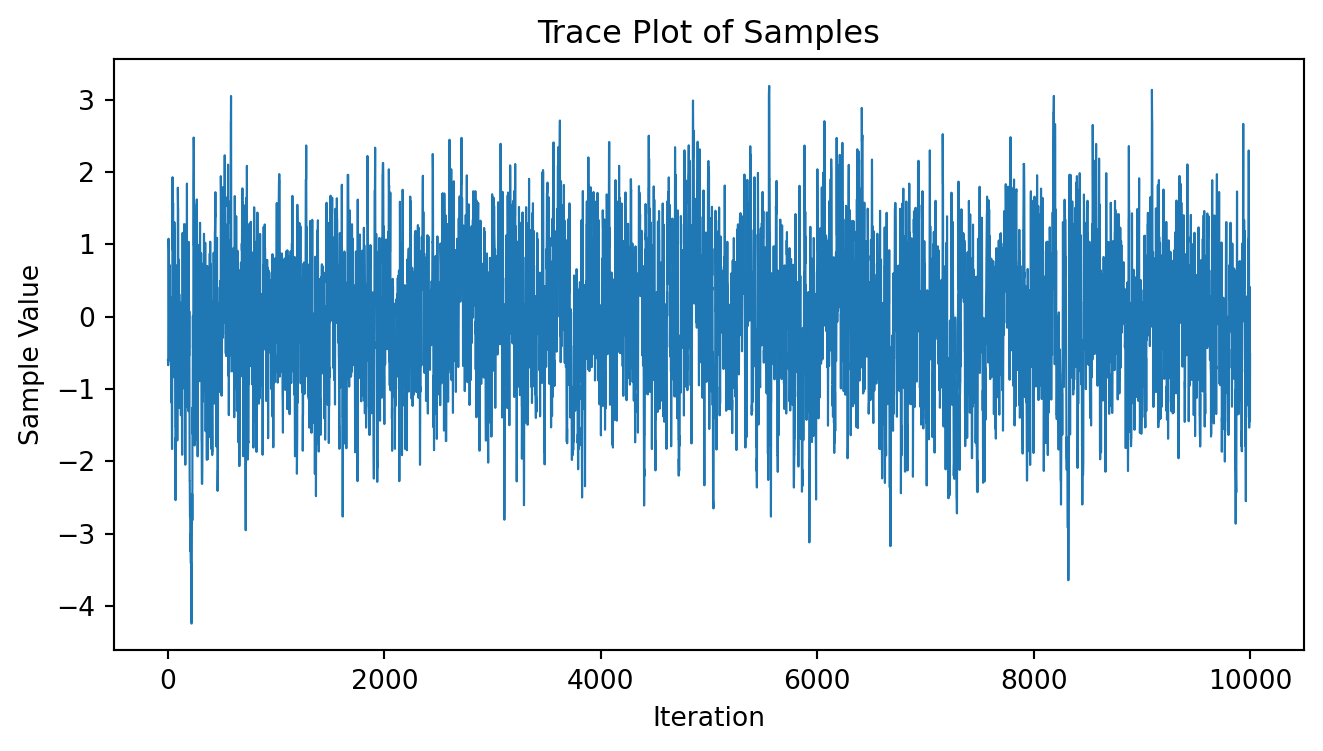
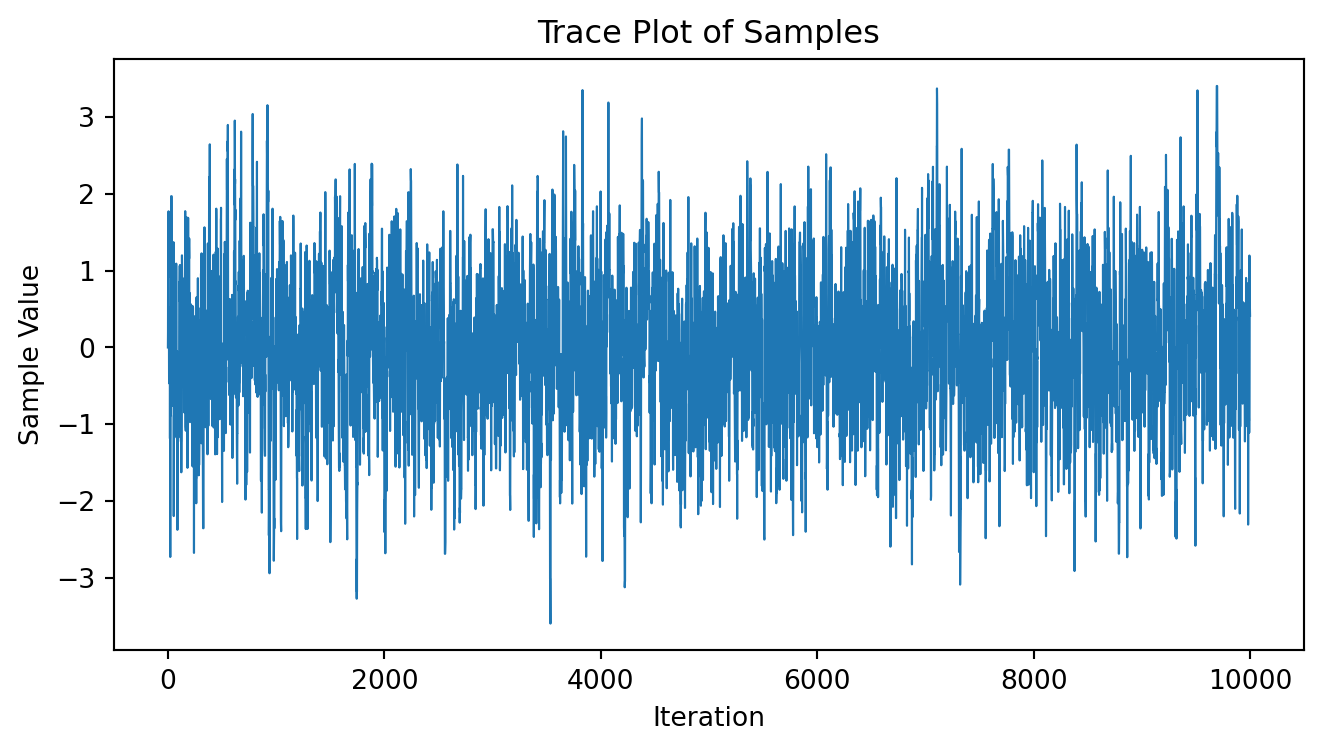
Built site for gh-pages

diff --git a/posts/2024/MCMC/metropolis-hastings.html b/posts/2024/MCMC/metropolis-hastings.html
@@ -143,22 +143,8 @@ gtag('config', 'G-G4BZMT89L0', { 'anonymize_ip': true});
 }
 </style>
 
-  <script>window.backupDefine = window.define; window.define = undefined;</script><script src="https://cdn.jsdelivr.net/npm/katex@latest/dist/katex.min.js"></script>
-  <script>document.addEventListener("DOMContentLoaded", function () {
- var mathElements = document.getElementsByClassName("math");
- var macros = [];
- for (var i = 0; i < mathElements.length; i++) {
-  var texText = mathElements[i].firstChild;
-  if (mathElements[i].tagName == "SPAN") {
-   katex.render(texText.data, mathElements[i], {
-    displayMode: mathElements[i].classList.contains('display'),
-    throwOnError: false,
-    macros: macros,
-    fleqn: false
-   });
-}}});
-  </script>
-  <script>window.define = window.backupDefine; window.backupDefine = undefined;</script><link rel="stylesheet" href="https://cdn.jsdelivr.net/npm/katex@latest/dist/katex.min.css">
+  <script src="https://cdnjs.cloudflare.com/polyfill/v3/polyfill.min.js?features=es6"></script>
+  <script src="https://cdn.jsdelivr.net/npm/mathjax@3/es5/tex-chtml-full.js" type="text/javascript"></script>
 
 <script type="text/javascript">
 const typesetMath = (el) => {
@@ -291,7 +277,7 @@ window.Quarto = {
 <!-- sidebar -->
 <!-- margin-sidebar -->
     <div id="quarto-margin-sidebar" class="sidebar margin-sidebar">
-        <nav id="TOC" role="doc-toc" class="toc-active">
+        <nav id="TOC" role="doc-toc" class="toc-active" data-toc-expanded="2">
     <h2 id="toc-title">目次</h2>
    
   <ul>
@@ -319,16 +305,20 @@ window.Quarto = {
 
 
 
+<div class="hidden">
+<p>$$</p>
+<p>$$</p>
+</div>
 <section id="モチベーション" class="level2">
 <h2 class="anchored" data-anchor-id="モチベーション">モチベーション</h2>
-<p>MCMC とは，任意の確率分布 <span class="math inline">f(\cdot)</span> を定常分布にもつマルコフ連鎖を生成することで，所望の分布 <span class="math inline">f(\cdot)</span> に従う乱数を生成するモンテカルロ法である．</p>
+<p>MCMC とは，任意の確率分布 <span class="math inline">\(f(\cdot)\)</span> を定常分布にもつマルコフ連鎖を生成することで，所望の分布 <span class="math inline">\(f(\cdot)\)</span> に従う乱数を生成するモンテカルロ法である．</p>
 <p>ある確率分布に従う乱数が欲しい，あるいは確率分布を数値的に近似したいというシーンはしばしばある．</p>
-<p>例えば，ベイズ統計学ではデータ <span class="math inline">D</span> から得た情報によって，パラメータ <span class="math inline">\theta</span> に対する信念とも言える事前分布 <span class="math inline">p(\theta)</span> を事後分布 <span class="math inline">p(\theta|D)</span> に更新し，この事後分布を使って推定を行う．</p>
-<p><span class="math display">
+<p>例えば，ベイズ統計学ではデータ <span class="math inline">\(D\)</span> から得た情報によって，パラメータ <span class="math inline">\(\theta\)</span> に対する信念とも言える事前分布 <span class="math inline">\(p(\theta)\)</span> を事後分布 <span class="math inline">\(p(\theta|D)\)</span> に更新し，この事後分布を使って推定を行う．</p>
+<p><span class="math display">\[
 p(\theta|D) = \frac{p(D|\theta)p(\theta)}{p(D)}
-</span></p>
+\]</span></p>
 <p>しかし，事後分布を解析的に導くことは，共役事前分布など特別な場合を除いて困難である．</p>
-<p>そこで，事後分布が定常分布となるような遷移確率（推移確率）を決めてパラメータについてのマルコフ連鎖 <span class="math inline">(\theta_t)_{t\geqslant 0}</span> を生成し，事後分布を数値的に近似することを考える．</p>
+<p>そこで，事後分布が定常分布となるような遷移確率（推移確率）を決めてパラメータについてのマルコフ連鎖 <span class="math inline">\((\theta_t)_{t\geqslant 0}\)</span> を生成し，事後分布を数値的に近似することを考える．</p>
 <p>ここで生じる問題は，どのようにしてパラメータについての遷移確率を決めれば良いかである．</p>
 <div class="callout callout-style-simple callout-tip">
 <div class="callout-body d-flex">
@@ -343,29 +333,29 @@ p(\theta|D) = \frac{p(D|\theta)p(\theta)}{p(D)}
 </section>
 <section id="metropolis-hastings-アルゴリズム" class="level2">
 <h2 class="anchored" data-anchor-id="metropolis-hastings-アルゴリズム">Metropolis-Hastings アルゴリズム</h2>
-<p>Metropolis-Hastings (MH) 法は，目標分布 (target distribution) <span class="math inline">\pi(\cdot)</span> を定常分布にもつマルコフ連鎖を生成するアルゴリズムの一つである．</p>
-<p>前述のベイズ統計学の例で言うと，事後分布 <span class="math inline">p(\theta|D)</span> が目標分布 <span class="math inline">\pi(\theta)</span> ということになる． 本稿では引き続きこの例を使用し，パラメータ <span class="math inline">\theta \in \Theta \subset \R^d</span> の従う分布 <span class="math inline">\pi(\theta)</span> を目標分布だと考えて議論を進める．</p>
+<p>Metropolis-Hastings (MH) 法は，目標分布 (target distribution) <span class="math inline">\(\pi(\cdot)\)</span> を定常分布にもつマルコフ連鎖を生成するアルゴリズムの一つである．</p>
+<p>前述のベイズ統計学の例で言うと，事後分布 <span class="math inline">\(p(\theta|D)\)</span> が目標分布 <span class="math inline">\(\pi(\theta)\)</span> ということになる． 本稿では引き続きこの例を使用し，パラメータ <span class="math inline">\(\theta \in \Theta \subset \mathbb{R}^d\)</span> の従う分布 <span class="math inline">\(\pi(\theta)\)</span> を目標分布だと考えて議論を進める．</p>
 <section id="提案分布の導入" class="level3">
 <h3 class="anchored" data-anchor-id="提案分布の導入">提案分布の導入</h3>
-<p>マルコフ連鎖は，状態空間 (state space) と状態間の遷移確率で規定される． 現時点でわかっていることは，パラメータ <span class="math inline">\theta</span> が状態空間 <span class="math inline">\Theta</span> の一つの状態を表すということだけで，どのような遷移確率で状態遷移するかは未知である．</p>
-<p>そこで，状態 <span class="math inline">\theta</span> の下での提案分布 <span class="math inline">q(\theta, \theta')</span> を適当に導入する． ただし，<span class="math inline">\int_\Theta q(\theta, \theta') d\theta' = 1</span>である． 提案分布はマルコフ連鎖 <span class="math inline">(\theta_t)</span> が状態 <span class="math inline">\theta</span> にあるとき，来期の状態 <span class="math inline">\theta'</span> が条件付き確率 <span class="math inline">q(\theta, \theta')</span> で決まることを意味する．</p>
-<p>もし提案分布 <span class="math inline">q(\theta, \theta')</span> が詳細釣り合い条件</p>
-<p><span id="eq-detailed-balance"><span class="math display">
+<p>マルコフ連鎖は，状態空間 (state space) と状態間の遷移確率で規定される． 現時点でわかっていることは，パラメータ <span class="math inline">\(\theta\)</span> が状態空間 <span class="math inline">\(\Theta\)</span> の一つの状態を表すということだけで，どのような遷移確率で状態遷移するかは未知である．</p>
+<p>そこで，状態 <span class="math inline">\(\theta\)</span> の下での提案分布 <span class="math inline">\(q(\theta, \theta')\)</span> を適当に導入する． ただし，<span class="math inline">\(\int_\Theta q(\theta, \theta') d\theta' = 1\)</span>である． 提案分布はマルコフ連鎖 <span class="math inline">\((\theta_t)\)</span> が状態 <span class="math inline">\(\theta\)</span> にあるとき，来期の状態 <span class="math inline">\(\theta'\)</span> が条件付き確率 <span class="math inline">\(q(\theta, \theta')\)</span> で決まることを意味する．</p>
+<p>もし提案分布 <span class="math inline">\(q(\theta, \theta')\)</span> が詳細釣り合い条件</p>
+<p><span id="eq-detailed-balance"><span class="math display">\[
 \pi(\theta)q(\theta, \theta') = \pi(\theta')q(\theta', \theta) \quad \forall \theta, \theta' \in \Theta
-\tag{1}</span></span></p>
-<p>を満たすなら，目標分布 <span class="math inline">\pi(\cdot)</span> を定常分布にもつマルコフ連鎖の遷移確率を得たことになるので，<span class="math inline">q(\theta, \theta')</span> を用いてサンプリングすれば良い． 実際，<a href="#eq-detailed-balance" class="quarto-xref">式&nbsp;1</a> の両辺を <span class="math inline">\theta'</span> について積分すれば，<span class="math inline">\pi(\cdot)</span> が定常分布であることがわかる：</p>
-<p><span class="math display">
+\tag{1}\]</span></span></p>
+<p>を満たすなら，目標分布 <span class="math inline">\(\pi(\cdot)\)</span> を定常分布にもつマルコフ連鎖の遷移確率を得たことになるので，<span class="math inline">\(q(\theta, \theta')\)</span> を用いてサンプリングすれば良い． 実際，<a href="#eq-detailed-balance" class="quarto-xref">式&nbsp;1</a> の両辺を <span class="math inline">\(\theta'\)</span> について積分すれば，<span class="math inline">\(\pi(\cdot)\)</span> が定常分布であることがわかる：</p>
+<p><span class="math display">\[
 \pi(\theta) = \int_\Theta \pi(\theta')q(\theta', \theta) d\theta'.
-</span></p>
-<p>しかし，<span class="math inline">q(\theta, \theta')</span> は適当に設定した分布なので <a href="#eq-detailed-balance" class="quarto-xref">式&nbsp;1</a> は一般には成り立たない． ここで，一般性を失わずに</p>
-<p><span id="eq-inequality"><span class="math display">
+\]</span></p>
+<p>しかし，<span class="math inline">\(q(\theta, \theta')\)</span> は適当に設定した分布なので <a href="#eq-detailed-balance" class="quarto-xref">式&nbsp;1</a> は一般には成り立たない． ここで，一般性を失わずに</p>
+<p><span id="eq-inequality"><span class="math display">\[
 \pi(\theta)q(\theta, \theta') &gt; \pi(\theta')q(\theta', \theta)
-\tag{2}</span></span></p>
-<p>と仮定する． 目標分布 <span class="math inline">\pi(\theta)</span> を状態 <span class="math inline">\theta</span> にある人の割合と思えば，<a href="#eq-inequality" class="quarto-xref">式&nbsp;2</a> は状態 <span class="math inline">\theta</span> から <span class="math inline">\theta'</span> に移動する人の割合が，逆に <span class="math inline">\theta'</span> から <span class="math inline">\theta</span> に移動する人の割合よりも大きいということを表している．</p>
+\tag{2}\]</span></span></p>
+<p>と仮定する． 目標分布 <span class="math inline">\(\pi(\theta)\)</span> を状態 <span class="math inline">\(\theta\)</span> にある人の割合と思えば，<a href="#eq-inequality" class="quarto-xref">式&nbsp;2</a> は状態 <span class="math inline">\(\theta\)</span> から <span class="math inline">\(\theta'\)</span> に移動する人の割合が，逆に <span class="math inline">\(\theta'\)</span> から <span class="math inline">\(\theta\)</span> に移動する人の割合よりも大きいということを表している．</p>
 </section>
 <section id="状態遷移の制限" class="level3">
 <h3 class="anchored" data-anchor-id="状態遷移の制限">状態遷移の制限</h3>
-<p>詳細釣り合い条件（<a href="#eq-detailed-balance" class="quarto-xref">式&nbsp;1</a>）は，両者の割合が同じであってほしいという要請なので，人の移動に交通規制をかけて状態間の移動人数が釣り合うようにしよう． 具体的には，状態 <span class="math inline">\theta</span> から <span class="math inline">\theta'</span> への移動を制限する確率 <span class="math inline">\alpha(\theta, \theta') &lt; 1</span> を導入し，<span class="math inline">\theta</span> から <span class="math inline">\theta'</span> へ移動する人の数を減らせば良い． この任意の2点間の移動を制限する確率 <span class="math inline">\alpha(\cdot, \cdot) \in [0,1]</span> をここでは交通規制率と呼ぶことにする<a href="#fn1" class="footnote-ref" id="fnref1" role="doc-noteref"><sup>1</sup></a>．</p>
+<p>詳細釣り合い条件（<a href="#eq-detailed-balance" class="quarto-xref">式&nbsp;1</a>）は，両者の割合が同じであってほしいという要請なので，人の移動に交通規制をかけて状態間の移動人数が釣り合うようにしよう． 具体的には，状態 <span class="math inline">\(\theta\)</span> から <span class="math inline">\(\theta'\)</span> への移動を制限する確率 <span class="math inline">\(\alpha(\theta, \theta') &lt; 1\)</span> を導入し，<span class="math inline">\(\theta\)</span> から <span class="math inline">\(\theta'\)</span> へ移動する人の数を減らせば良い． この任意の2点間の移動を制限する確率 <span class="math inline">\(\alpha(\cdot, \cdot) \in [0,1]\)</span> をここでは交通規制率と呼ぶことにする<a href="#fn1" class="footnote-ref" id="fnref1" role="doc-noteref"><sup>1</sup></a>．</p>
 <div class="callout callout-style-simple callout-important">
 <div class="callout-body d-flex">
 <div class="callout-icon-container">
@@ -376,32 +366,32 @@ p(\theta|D) = \frac{p(D|\theta)p(\theta)}{p(D)}
 </div>
 </div>
 </div>
-<p>交通規制率を導入すれば，状態 <span class="math inline">\theta</span> と <span class="math inline">\theta' \neq \theta</span> の間の移動は</p>
-<p><span id="eq-pmh"><span class="math display">
+<p>交通規制率を導入すれば，状態 <span class="math inline">\(\theta\)</span> と <span class="math inline">\(\theta' \neq \theta\)</span> の間の移動は</p>
+<p><span id="eq-pmh"><span class="math display">\[
 \begin{cases}
 p_\text{MH}(\theta, \theta') \equiv q(\theta, \theta')\alpha(\theta, \theta') \\
 p_\text{MH}(\theta', \theta) = q(\theta', \theta)\alpha(\theta', \theta)
 \end{cases}
 \qquad (\theta \neq \theta')
-\tag{3}</span></span></p>
-<p>に従って行われることになる． <a href="#eq-inequality" class="quarto-xref">式&nbsp;2</a> は <span class="math inline">\theta'</span> から <span class="math inline">\theta</span> への移動数が不十分だと主張しているので，この方向の移動については規制をかけず <span class="math inline">\alpha(\theta', \theta) = 1</span> と設定する．</p>
-<p>以上のように <span class="math inline">\theta</span> から <span class="math inline">\theta'</span> への移動には規制をかけ，<span class="math inline">\theta'</span> から <span class="math inline">\theta</span> の移動を全て許可すれば，詳細釣り合い条件</p>
-<p><span id="eq-detailed-balance-pmh"><span class="math display">
+\tag{3}\]</span></span></p>
+<p>に従って行われることになる． <a href="#eq-inequality" class="quarto-xref">式&nbsp;2</a> は <span class="math inline">\(\theta'\)</span> から <span class="math inline">\(\theta\)</span> への移動数が不十分だと主張しているので，この方向の移動については規制をかけず <span class="math inline">\(\alpha(\theta', \theta) = 1\)</span> と設定する．</p>
+<p>以上のように <span class="math inline">\(\theta\)</span> から <span class="math inline">\(\theta'\)</span> への移動には規制をかけ，<span class="math inline">\(\theta'\)</span> から <span class="math inline">\(\theta\)</span> の移動を全て許可すれば，詳細釣り合い条件</p>
+<p><span id="eq-detailed-balance-pmh"><span class="math display">\[
 \pi(\theta)p_\text{MH}(\theta, \theta') = \pi(\theta')p_\text{MH}(\theta', \theta)
-\tag{4}</span></span></p>
+\tag{4}\]</span></span></p>
 <p>が成り立つので，<a href="#eq-pmh" class="quarto-xref">式&nbsp;3</a> を使って書き下すと次式を得る：</p>
-<p><span class="math display">
+<p><span class="math display">\[
 \begin{aligned}
 \pi(\theta)q(\theta, \theta')\alpha(\theta, \theta') &amp;= \pi(\theta')q(\theta', \theta)\alpha(\theta', \theta) \\
 &amp;= \pi(\theta')q(\theta', \theta).
 \end{aligned}
-</span></p>
-<p>これを <span class="math inline">\alpha(\theta, \theta')</span> について解けば，</p>
-<p><span class="math display">
+\]</span></p>
+<p>これを <span class="math inline">\(\alpha(\theta, \theta')\)</span> について解けば，</p>
+<p><span class="math display">\[
 \alpha(\theta, \theta') =
 \frac{\pi(\theta')q(\theta', \theta)}{\pi(\theta)q(\theta, \theta')}
-</span></p>
-<p>と交通規制率を求めることができる． この <span class="math inline">\alpha(\theta, \theta')</span> は <a href="#eq-inequality" class="quarto-xref">式&nbsp;2</a> の大小関係の下で導出されたが，不等号が逆向きの場合も同様にして求めることができる．</p>
+\]</span></p>
+<p>と交通規制率を求めることができる． この <span class="math inline">\(\alpha(\theta, \theta')\)</span> は <a href="#eq-inequality" class="quarto-xref">式&nbsp;2</a> の大小関係の下で導出されたが，不等号が逆向きの場合も同様にして求めることができる．</p>
 <p>一度ここまでの議論をまとめよう．</p>
 <div class="callout callout-style-simple callout-tip no-icon">
 <div class="callout-body d-flex">
@@ -410,38 +400,38 @@ p_\text{MH}(\theta', \theta) = q(\theta', \theta)\alpha(\theta', \theta)
 </div>
 <div class="callout-body-container">
 <ol type="1">
-<li>目標分布 <span class="math inline">\pi(\theta)</span> を定常分布にもつマルコフ連鎖 <span class="math inline">(\theta_t)</span> の遷移確率が未知なので，代わりに提案分布 <span class="math inline">q(\theta, \theta')</span> を導入した．</li>
+<li>目標分布 <span class="math inline">\(\pi(\theta)\)</span> を定常分布にもつマルコフ連鎖 <span class="math inline">\((\theta_t)\)</span> の遷移確率が未知なので，代わりに提案分布 <span class="math inline">\(q(\theta, \theta')\)</span> を導入した．</li>
 <li>提案分布が詳細釣り合い条件（<a href="#eq-detailed-balance" class="quarto-xref">式&nbsp;1</a>）を直接満たすとは限らないので，所与の提案分布に対して詳細釣り合い条件が成り立つように交通規制率を次式で定めた<a href="#fn2" class="footnote-ref" id="fnref2" role="doc-noteref"><sup>2</sup></a>．</li>
 </ol>
-<p><span id="eq-MH-ratio"><span class="math display">
+<p><span id="eq-MH-ratio"><span class="math display">\[
 \alpha(\theta, \theta') =
 \min\left\{ 1, \frac{\pi(\theta')q(\theta', \theta)}{\pi(\theta)q(\theta, \theta')} \right\}
 \qquad (\theta \neq \theta')
-\tag{5}</span></span></p>
+\tag{5}\]</span></span></p>
 </div>
 </div>
 </div>
 </section>
 <section id="遷移確率の定式化" class="level3">
 <h3 class="anchored" data-anchor-id="遷移確率の定式化">遷移確率の定式化</h3>
-<p>これまでの議論では，状態遷移 <span class="math inline">\theta\to\theta'</span> について <span class="math inline">\theta' \neq \theta</span> であることを暗に仮定していた．MH 法の遷移確率を定式化するには，状態が <span class="math inline">\theta</span> にとどまるケース <span class="math inline">\theta\to\theta</span> も考える必要がある．</p>
-<p>状態が <span class="math inline">\theta</span> にとどまる確率は次式で与えられる．</p>
-<p><span id="eq-prob-stay"><span class="math display">
+<p>これまでの議論では，状態遷移 <span class="math inline">\(\theta\to\theta'\)</span> について <span class="math inline">\(\theta' \neq \theta\)</span> であることを暗に仮定していた．MH 法の遷移確率を定式化するには，状態が <span class="math inline">\(\theta\)</span> にとどまるケース <span class="math inline">\(\theta\to\theta\)</span> も考える必要がある．</p>
+<p>状態が <span class="math inline">\(\theta\)</span> にとどまる確率は次式で与えられる．</p>
+<p><span id="eq-prob-stay"><span class="math display">\[
 \begin{aligned}
 r(\theta)
 &amp;= 1 - \int_\Theta p_\text{MH}(\theta, \theta') d\theta'\\
 &amp;= 1 - \int_\Theta q(\theta, \theta')\alpha(\theta, \theta') d\theta'
 \end{aligned}
-\tag{6}</span></span></p>
-<p><a href="#eq-prob-stay" class="quarto-xref">式&nbsp;6</a> を用いると MH 法の遷移確率 <span class="math inline">P_\text{MH}(\theta, \theta')</span> は，</p>
-<p><span id="eq-Pmh"><span class="math display">
+\tag{6}\]</span></span></p>
+<p><a href="#eq-prob-stay" class="quarto-xref">式&nbsp;6</a> を用いると MH 法の遷移確率 <span class="math inline">\(P_\text{MH}(\theta, \theta')\)</span> は，</p>
+<p><span id="eq-Pmh"><span class="math display">\[
 \begin{aligned}
 P_\text{MH}(\theta, \theta')
 &amp;= p_\text{MH}(\theta, \theta') + \delta(\theta' -\theta)r(\theta) \\
 &amp;= q(\theta, \theta')\alpha(\theta, \theta') + \delta(\theta' -\theta)r(\theta)
 \end{aligned}
-\tag{7}</span></span></p>
-<p>である． ただし，<span class="math inline">\delta(x)</span> はディラックのデルタ関数である<a href="#fn3" class="footnote-ref" id="fnref3" role="doc-noteref"><sup>3</sup></a>．</p>
+\tag{7}\]</span></span></p>
+<p>である． ただし，<span class="math inline">\(\delta(x)\)</span> はディラックのデルタ関数である<a href="#fn3" class="footnote-ref" id="fnref3" role="doc-noteref"><sup>3</sup></a>．</p>
 <div class="callout callout-style-default callout-tip no-icon callout-titled">
 <div class="callout-header d-flex align-content-center">
 <div class="callout-icon-container">
@@ -452,10 +442,10 @@ P_\text{MH}(\theta, \theta')
 </div>
 </div>
 <div class="callout-body-container callout-body">
-<p><a href="#eq-Pmh" class="quarto-xref">式&nbsp;7</a> で与えられるMH 法の遷移確率 <span class="math inline">P_\text{MH}(\theta, \theta')</span> の下で，目標分布 <span class="math inline">\pi(\cdot)</span> は定常分布である． すなわち，</p>
-<p><span class="math display">
+<p><a href="#eq-Pmh" class="quarto-xref">式&nbsp;7</a> で与えられるMH 法の遷移確率 <span class="math inline">\(P_\text{MH}(\theta, \theta')\)</span> の下で，目標分布 <span class="math inline">\(\pi(\cdot)\)</span> は定常分布である． すなわち，</p>
+<p><span class="math display">\[
 \int_\Theta \pi(\theta)P_\text{MH}(\theta, \theta') d\theta = \pi(\theta') \qquad \forall\theta,\theta'\in\Theta.
-</span></p>
+\]</span></p>
 </div>
 </div>
 <div class="callout callout-style-default callout-warning no-icon callout-titled">
@@ -470,8 +460,8 @@ P_\text{MH}(\theta, \theta')
 </div>
 <div id="callout-2" class="callout-2-contents callout-collapse collapse">
 <div class="callout-body-container callout-body">
-<p><span class="math inline">\theta,\theta'\in\Theta</span> を任意にとる． <a href="#eq-detailed-balance-pmh" class="quarto-xref">式&nbsp;4</a> を用いると次式が成り立つ．</p>
-<p><span class="math display">
+<p><span class="math inline">\(\theta,\theta'\in\Theta\)</span> を任意にとる． <a href="#eq-detailed-balance-pmh" class="quarto-xref">式&nbsp;4</a> を用いると次式が成り立つ．</p>
+<p><span class="math display">\[
 \begin{aligned}
 \int_\Theta \pi(\theta)P_\text{MH}(\theta, \theta') d\theta
 &amp;= \int_\Theta \pi(\theta)\left[ p_\text{MH}(\theta, \theta') + \delta(\theta' -\theta)r(\theta) \right] d\theta \\
@@ -480,7 +470,7 @@ P_\text{MH}(\theta, \theta')
 &amp;= \pi(\theta')\int_\Theta p_\text{MH}(\theta', \theta)d\theta + \pi(\theta')\left[1 - \int_\Theta p_\text{MH}(\theta', \theta) d\theta\right] \\
 &amp;= \pi(\theta').
 \end{aligned}
-</span></p>
+\]</span></p>
 </div>
 </div>
 </div>
@@ -498,62 +488,62 @@ Pseudocode for Metropolis Hastings method
 </div>
 </div>
 <div class="callout-body-container callout-body">
-<p>Input: The number of samples <span class="math inline">N</span> and starting point <span class="math inline">\theta_0</span>.</p>
+<p>Input: The number of samples <span class="math inline">\(N\)</span> and starting point <span class="math inline">\(\theta_0\)</span>.</p>
 <ol type="1">
 <li><strong>for</strong> n = 1,…, N <strong>do</strong></li>
-<li> Propose <span class="math inline">\theta' \sim q(\theta_{n-1}, \theta')</span>.</li>
+<li> Propose <span class="math inline">\(\theta' \sim q(\theta_{n-1}, \theta')\)</span>.</li>
 <li> Compute the acceptance ratio given by</li>
 </ol>
-<p><span class="math display">
+<p><span class="math display">\[
 \alpha(\theta_{n-1}, \theta') =
 \min\left\{ 1, \frac{\pi(\theta')q(\theta', \theta_{n-1})}{\pi(\theta_{n-1})q(\theta_{n-1}, \theta')} \right\}.
-</span></p>
+\]</span></p>
 <ol start="4" type="1">
-<li> Draw <span class="math inline">u \sim \text{Uniform}[0, 1)</span>.</li>
-<li> If <span class="math inline">u &lt; \alpha(\theta_{n-1}, \theta')</span>, then set <span class="math inline">\theta_n = \theta'</span>.</li>
-<li> Otherwise reject the proposal <span class="math inline">\theta'</span> and set <span class="math inline">\theta_n = \theta_{n-1}</span>.</li>
+<li> Draw <span class="math inline">\(u \sim \text{Uniform}[0, 1)\)</span>.</li>
+<li> If <span class="math inline">\(u &lt; \alpha(\theta_{n-1}, \theta')\)</span>, then set <span class="math inline">\(\theta_n = \theta'\)</span>.</li>
+<li> Otherwise reject the proposal <span class="math inline">\(\theta'\)</span> and set <span class="math inline">\(\theta_n = \theta_{n-1}\)</span>.</li>
 <li><strong>end for</strong></li>
 <li>Discard first burnin samples and return the remaining samples.</li>
 </ol>
 </div>
 </div>
-<p>特に，提案分布が <span class="math inline">q(\theta_{n-1}, \theta') = q(\theta', \theta_{n-1})</span> と対称的である場合は acceptance ratio が</p>
-<p><span class="math display">
+<p>特に，提案分布が <span class="math inline">\(q(\theta_{n-1}, \theta') = q(\theta', \theta_{n-1})\)</span> と対称的である場合は acceptance ratio が</p>
+<p><span class="math display">\[
 \alpha(\theta_{n-1}, \theta') =
 \min\left\{ 1, \frac{\pi(\theta')}{\pi(\theta_{n-1})} \right\}
-</span></p>
+\]</span></p>
 <p>と簡単になり，解釈もしやすくなる．</p>
-<p>つまり，<span class="math inline">\theta_{n-1}\to\theta'</span> の状態遷移で目標分布 <span class="math inline">\pi(\cdot)</span> の山を登る方向の移動</p>
-<p><span class="math display">
-\pi(\theta_{n-1}) \leqslant \pi(\theta') \iff
+<p>つまり，<span class="math inline">\(\theta_{n-1}\to\theta'\)</span> の状態遷移で目標分布 <span class="math inline">\(\pi(\cdot)\)</span> の山を登る方向の移動</p>
+<p><span class="math display">\[
+\pi(\theta_{n-1}) \leqslant \pi(\theta') \;\mathrm{iff}\;
 \frac{\pi(\theta')}{\pi(\theta_{n-1})} \geqslant 1
-</span></p>
-<p>は確率 <span class="math inline">1</span> で許可されるが，逆に山を降る方向の移動</p>
-<p><span class="math display">
-\pi(\theta_{n-1}) &gt; \pi(\theta') \iff
+\]</span></p>
+<p>は確率 <span class="math inline">\(1\)</span> で許可されるが，逆に山を降る方向の移動</p>
+<p><span class="math display">\[
+\pi(\theta_{n-1}) &gt; \pi(\theta') \;\mathrm{iff}\;
 \frac{\pi(\theta')}{\pi(\theta_{n-1})} &lt; 1
-</span></p>
-<p>については，確率 <span class="math inline">\alpha(\theta_{n-1}, \theta') = \pi(\theta') / \pi(\theta_{n-1})</span> で移動が許可される．</p>
+\]</span></p>
+<p>については，確率 <span class="math inline">\(\alpha(\theta_{n-1}, \theta') = \pi(\theta') / \pi(\theta_{n-1})\)</span> で移動が許可される．</p>
 <div class="quarto-figure quarto-figure-center">
 <figure class="figure">
 <p><img src="./images/target-distribution.png" class="img-fluid figure-img" style="width:60.0%"></p>
 <figcaption>Source: <span class="citation" data-cites="chib1995">Chib and Greenberg (<a href="#ref-chib1995" role="doc-biblioref">1995</a>)</span></figcaption>
 </figure>
 </div>
-<p><span class="citation" data-cites="chib1995">Chib and Greenberg (<a href="#ref-chib1995" role="doc-biblioref">1995</a>)</span> の図を借りると，<span class="math inline">\pi(\cdot)</span> という山で現在地 <span class="math inline">x</span> の標高よりも高い地点 <span class="math inline">y_1</span> に登る提案は 100% 受け入れられ，標高の低い地点 <span class="math inline">y_2</span> に移動する提案は <span class="math inline">\alpha(x, y_2)</span> で確率的に受け入れられるということだ．</p>
+<p><span class="citation" data-cites="chib1995">Chib and Greenberg (<a href="#ref-chib1995" role="doc-biblioref">1995</a>)</span> の図を借りると，<span class="math inline">\(\pi(\cdot)\)</span> という山で現在地 <span class="math inline">\(x\)</span> の標高よりも高い地点 <span class="math inline">\(y_1\)</span> に登る提案は 100% 受け入れられ，標高の低い地点 <span class="math inline">\(y_2\)</span> に移動する提案は <span class="math inline">\(\alpha(x, y_2)\)</span> で確率的に受け入れられるということだ．</p>
 </section>
 </section>
 <section id="python-による実装" class="level2">
 <h2 class="anchored" data-anchor-id="python-による実装">Python による実装</h2>
-<p>上記のMHアルゴリズムを <code>metropolis_hastings()</code> として実装する． 提案分布には平均 <span class="math inline">\theta_{t-1}</span>，標準偏差 <code>proposal_std</code> を持つ対称的な正規分布を使用する． したがって，acceptance ratio は目標分布の比に一致する．</p>
+<p>上記のMHアルゴリズムを <code>metropolis_hastings()</code> として実装する． 提案分布には平均 <span class="math inline">\(\theta_{t-1}\)</span>，標準偏差 <code>proposal_std</code> を持つ対称的な正規分布を使用する． したがって，acceptance ratio は目標分布の比に一致する．</p>
 <p>ここでは，標準正規分布を目標分布とし，確率密度</p>
-<p><span class="math display">
+<p><span class="math display">\[
 f(x) = \frac{1}{\sqrt{2\pi}}\exp\left(-\frac{x^2}{2}\right)
-</span></p>
+\]</span></p>
 <p>からMH法によってサンプリングを行う関数を実装する．</p>
 <section id="実装" class="level3">
 <h3 class="anchored" data-anchor-id="実装">実装</h3>
-<div id="007862f9" class="cell" data-execution_count="1">
+<div id="4cc34ce6" class="cell" data-execution_count="1">
 <div class="sourceCode cell-code" id="cb1"><pre class="sourceCode python code-with-copy"><code class="sourceCode python"><span id="cb1-1"><a href="#cb1-1" aria-hidden="true" tabindex="-1"></a><span class="im">import</span> numpy <span class="im">as</span> np</span>
 <span id="cb1-2"><a href="#cb1-2" aria-hidden="true" tabindex="-1"></a><span class="im">import</span> matplotlib.pyplot <span class="im">as</span> plt</span>
 <span id="cb1-3"><a href="#cb1-3" aria-hidden="true" tabindex="-1"></a></span>
@@ -589,7 +579,7 @@ f(x) = \frac{1}{\sqrt{2\pi}}\exp\left(-\frac{x^2}{2}\right)
 <section id="サンプリング" class="level3">
 <h3 class="anchored" data-anchor-id="サンプリング">サンプリング</h3>
 <p><code>metropolis_hastings()</code> を使って標準正規分布から <code>N=10000</code> 個サンプリングを行い，そのトレースプロットを描いてみる． 初期値は <code>x_0=0</code> に設定する．</p>
-<div id="2c77a4bd" class="cell" data-execution_count="2">
+<div id="ffa9369f" class="cell" data-execution_count="2">
 <div class="sourceCode cell-code" id="cb2"><pre class="sourceCode python code-with-copy"><code class="sourceCode python"><span id="cb2-1"><a href="#cb2-1" aria-hidden="true" tabindex="-1"></a><span class="co"># サンプリング</span></span>
 <span id="cb2-2"><a href="#cb2-2" aria-hidden="true" tabindex="-1"></a>samples1 <span class="op">=</span> metropolis_hastings(N<span class="op">=</span><span class="dv">10000</span>, x_0<span class="op">=</span><span class="dv">0</span>, proposal_std<span class="op">=</span><span class="fl">1.0</span>)</span>
 <span id="cb2-3"><a href="#cb2-3" aria-hidden="true" tabindex="-1"></a></span>
@@ -609,7 +599,7 @@ f(x) = \frac{1}{\sqrt{2\pi}}\exp\left(-\frac{x^2}{2}\right)
 </div>
 </div>
 <p>チェーンの最初の部分は初期値依存性があるので，サンプルの最初の 2000 個を burnin として捨て，残りの 8000 個のヒストグラムと目標分布を重ねて描いてみる．</p>
-<div id="43703cc0" class="cell" data-execution_count="3">
+<div id="931b8a6e" class="cell" data-execution_count="3">
 <div class="sourceCode cell-code" id="cb3"><pre class="sourceCode python code-with-copy"><code class="sourceCode python"><span id="cb3-1"><a href="#cb3-1" aria-hidden="true" tabindex="-1"></a><span class="co"># サンプルと目標分布のプロット</span></span>
 <span id="cb3-2"><a href="#cb3-2" aria-hidden="true" tabindex="-1"></a>plt.figure(figsize<span class="op">=</span>(<span class="dv">8</span>, <span class="dv">4</span>))</span>
 <span id="cb3-3"><a href="#cb3-3" aria-hidden="true" tabindex="-1"></a>plt.hist(samples1[<span class="dv">2000</span>:], bins<span class="op">=</span><span class="dv">50</span>, density<span class="op">=</span><span class="va">True</span>, alpha<span class="op">=</span><span class="fl">0.8</span>, color<span class="op">=</span><span class="st">'#78C2AD'</span>, label<span class="op">=</span><span class="st">'Sampled distribution'</span>)</span>
@@ -623,13 +613,13 @@ f(x) = \frac{1}{\sqrt{2\pi}}\exp\left(-\frac{x^2}{2}\right)
 <div class="cell-output cell-output-display">
 <div>
 <figure class="figure">
-<p><img src="metropolis-hastings_files/figure-html/cell-4-output-1.png" width="672" height="376" class="figure-img"></p>
+<p><img src="metropolis-hastings_files/figure-html/cell-4-output-1.png" width="663" height="376" class="figure-img"></p>
 </figure>
 </div>
 </div>
 </div>
 <p>おおよそ目標分布（赤線）を数値的に近似できている様子が見て取れる． 次に，初期値を <code>x_0=3</code> に変え， <code>N=100000</code> 個サンプリングを行ってみる． サンプルサイズが増えるので，ヒストグラムはより赤線に近い形になるはずである．</p>
-<div id="4bbf0542" class="cell" data-execution_count="4">
+<div id="ad5c8632" class="cell" data-execution_count="4">
 <div class="sourceCode cell-code" id="cb4"><pre class="sourceCode python code-with-copy"><code class="sourceCode python"><span id="cb4-1"><a href="#cb4-1" aria-hidden="true" tabindex="-1"></a><span class="co"># 初期値とサンプルサイズを変えてみる</span></span>
 <span id="cb4-2"><a href="#cb4-2" aria-hidden="true" tabindex="-1"></a>samples2 <span class="op">=</span> metropolis_hastings(N<span class="op">=</span><span class="dv">100000</span>, x_0<span class="op">=</span><span class="dv">3</span>, proposal_std<span class="op">=</span><span class="fl">1.0</span>)</span>
 <span id="cb4-3"><a href="#cb4-3" aria-hidden="true" tabindex="-1"></a></span>
@@ -648,7 +638,7 @@ f(x) = \frac{1}{\sqrt{2\pi}}\exp\left(-\frac{x^2}{2}\right)
 </div>
 </div>
 </div>
-<div id="9a9e743b" class="cell" data-execution_count="5">
+<div id="0d8a0d3a" class="cell" data-execution_count="5">
 <div class="sourceCode cell-code" id="cb5"><pre class="sourceCode python code-with-copy"><code class="sourceCode python"><span id="cb5-1"><a href="#cb5-1" aria-hidden="true" tabindex="-1"></a><span class="co"># サンプルと目標分布のプロット</span></span>
 <span id="cb5-2"><a href="#cb5-2" aria-hidden="true" tabindex="-1"></a>plt.figure(figsize<span class="op">=</span>(<span class="dv">8</span>, <span class="dv">4</span>))</span>
 <span id="cb5-3"><a href="#cb5-3" aria-hidden="true" tabindex="-1"></a>plt.hist(samples2, bins<span class="op">=</span><span class="dv">50</span>, density<span class="op">=</span><span class="va">True</span>, alpha<span class="op">=</span><span class="fl">0.8</span>, color<span class="op">=</span><span class="st">'#78C2AD'</span>, label<span class="op">=</span><span class="st">'Sampled distribution'</span>)</span>
@@ -726,8 +716,8 @@ Chib, Siddhartha, and Edward Greenberg. 1995. <span>“Understanding the Metropo
 
 <ol>
 <li id="fn1"><p>一般には採択比率 (acceptance ratio) や採択確率 (acceptance probability) などと呼ばれる．<a href="#fnref1" class="footnote-back" role="doc-backlink">↩</a></p></li>
-<li id="fn2"><p><a href="#eq-inequality" class="quarto-xref">式&nbsp;2</a> の不等号の向きがどちらの場合であっても対応できるように <span class="math inline">\min\{\}</span> を使用．<br>流出する人の数（分母）が流入する人の数（分子）よりも大きい場合のみ交通規制をかけるということ．<a href="#fnref2" class="footnote-back" role="doc-backlink">↩</a></p></li>
-<li id="fn3"><p><span class="math inline">x=0</span> のとき <span class="math inline">1</span> をとり，それ以外の <span class="math inline">x</span> で <span class="math inline">0</span> をとる関数．<a href="#fnref3" class="footnote-back" role="doc-backlink">↩</a></p></li>
+<li id="fn2"><p><a href="#eq-inequality" class="quarto-xref">式&nbsp;2</a> の不等号の向きがどちらの場合であっても対応できるように <span class="math inline">\(\min\{\}\)</span> を使用．<br>流出する人の数（分母）が流入する人の数（分子）よりも大きい場合のみ交通規制をかけるということ．<a href="#fnref2" class="footnote-back" role="doc-backlink">↩</a></p></li>
+<li id="fn3"><p><span class="math inline">\(x=0\)</span> のとき <span class="math inline">\(1\)</span> をとり，それ以外の <span class="math inline">\(x\)</span> で <span class="math inline">\(0\)</span> をとる関数．<a href="#fnref3" class="footnote-back" role="doc-backlink">↩</a></p></li>
 </ol>
 </section></div></main> <!-- /main -->
 <script id="quarto-html-after-body" type="application/javascript">

diff --git a/blog.html b/blog.html
@@ -244,7 +244,7 @@ window.Quarto = {
 
 <div class="quarto-listing quarto-listing-container-default" id="listing-listing">
 <div class="list quarto-listing-default">
-<div class="quarto-post image-right" data-index="0" data-categories="Bayesian,MCMC,Sampling,Python" data-listing-date-sort="1727362800000" data-listing-file-modified-sort="1727442594454" data-listing-date-modified-sort="1727362800000" data-listing-reading-time-sort="5" data-listing-word-count-sort="957">
+<div class="quarto-post image-right" data-index="0" data-categories="Bayesian,MCMC,Sampling,Python" data-listing-date-sort="1727362800000" data-listing-file-modified-sort="1727517507956" data-listing-date-modified-sort="1727362800000" data-listing-reading-time-sort="5" data-listing-word-count-sort="960">
 <div class="thumbnail">
 <p><a href="./posts/2024/MCMC/metropolis-hastings.html" class="no-external"></a></p><a href="./posts/2024/MCMC/metropolis-hastings.html" class="no-external">
 <p><img loading="lazy" src="./posts/2024/MCMC/images/MH.png" class="thumbnail-image"></p>

diff --git a/styles/styles.css b/styles/styles.css
@@ -131,8 +131,9 @@ h1, h2, h3, h4, h5, h6, .navbar-title, .menu-text {
     font-size: 70% !important;
 }
 
+/* これ↓がないと callout section で overflow する． */
 .callout-body-container {
-    max-width: 100%; /* これがないと callout section で overflow する． */
+    max-width: 100%;
 }
 
 /* MathJax 設定 */
